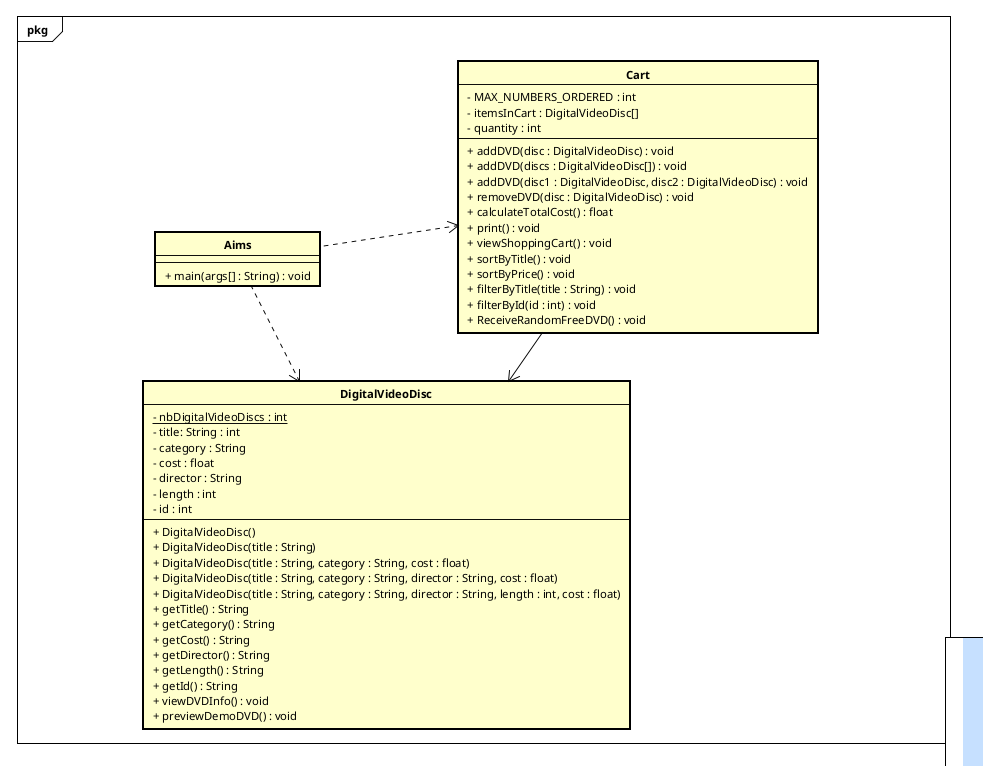
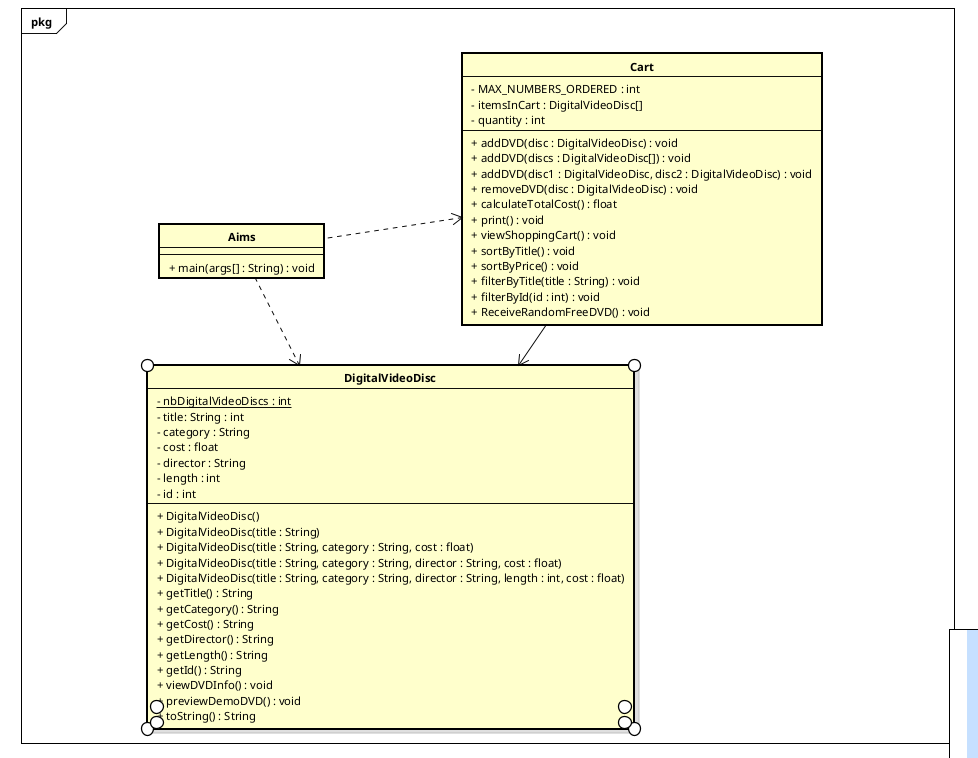
Modify method and create CartTest class

diff --git a/AimsProject/src/com/hust/kstn/models/Cart.java b/AimsProject/src/com/hust/kstn/models/Cart.java
@@ -50,14 +50,14 @@ public class Cart {
                 }
             }
             if(!isExist) {
-                System.out.println("The disc does not exist");
+                System.out.println("The disc " + disc.getTitle() + " does not exist");
             } else {
                 for(int i = index; i < qtyOrdered - 1; i++) {
                     itemsInCart[i] = itemsInCart[i + 1];
                 }
                 itemsInCart[qtyOrdered - 1] = null;
                 qtyOrdered--;
-                System.out.println("The disc has been removed sucessfully");
+                System.out.println("The disc " + disc.getTitle() + " has been removed sucessfully");
             }
         } else {
             System.out.println("The cart is empty");
@@ -73,12 +73,10 @@ public class Cart {
     }
 
     public void print() {
-        System.out.println("=== Total items in cart: " + qtyOrdered + " ===");
-        System.out.println("=== All items in cart ===");
-        for(int i = 0; i < qtyOrdered; i++) {
-            System.out.println("Title: " + itemsInCart[i].getTitle());
-            System.out.println("Cost: " + itemsInCart[i].getCost());
-        }
+        System.out.println("======================= THE CURRENT CART =======================");
+        System.out.println("Total items: [" + qtyOrdered + "]");
+        for(int i = 0; i < qtyOrdered; i++) System.out.println(itemsInCart[i].toString());;
+        System.out.println("Subtotal: [" + calculateTotalCost() + "]");
     }
 
     public void viewShoppingCart() {

diff --git a/AimsProject/src/com/hust/kstn/test/CartTest.java b/AimsProject/src/com/hust/kstn/test/CartTest.java
@@ -1,0 +1,40 @@
+package com.hust.kstn.test;
+
+import com.hust.kstn.models.*;
+
+public class CartTest {
+    public static void main(String[] args) {
+        Cart cart = new Cart();
+
+        DigitalVideoDisc[] myArray = new DigitalVideoDisc[16];
+        for(int i = 0; i < 16; i++) {
+            myArray[i] = new DigitalVideoDisc("DangBaoQuan_" + i, "None", "BaoQuanHihihi_" + i, (32 + i), (float)50.0);
+        }
+
+        DigitalVideoDisc dang = new DigitalVideoDisc("The Lion King", "Animation", "Roger Allers", 87, 19.95f);
+        DigitalVideoDisc bao = new DigitalVideoDisc("Star Wars", "Science Fiction", "George Lucas", 124, 24.95f);
+        DigitalVideoDisc quan = new DigitalVideoDisc("Aladdin", "Animation", "John Musker", 90, 18.99f);
+        DigitalVideoDisc dep = new DigitalVideoDisc("The Godfather", "Crime", "Francis Coppola", 175, 22.5f);
+        DigitalVideoDisc trai = new DigitalVideoDisc("Inception", "Action", "Christopher Nolan", 148, 21.0f);
+
+        // Add items
+        cart.addDVD(bao, quan);
+        cart.print();
+
+        // Don't remove items that aren't in the cart.
+        cart.removeDVD(trai);
+        cart.print();
+        
+        cart.removeDVD(quan);
+        cart.print();
+
+        cart.addDVD(myArray);
+        cart.print();
+
+        cart.addDVD(trai, quan);
+        cart.print();
+
+        cart.addDVD(dang, dep);
+        cart.print();
+    }
+}

diff --git a/AimsProject/src/com/hust/kstn/models/DigitalVideoDisc.java b/AimsProject/src/com/hust/kstn/models/DigitalVideoDisc.java
@@ -116,4 +116,14 @@ public class DigitalVideoDisc {
             category.equalsIgnoreCase(other.category) &&
             director.equalsIgnoreCase(other.director);
     }
+
+    @Override
+    public String toString() {
+        return "DVD" + "[" + this.id + "]"
+        + "[" + this.title + "]"
+        + "[" + this.cost + "]"
+        + "[" + this.director + "]"
+        + "[" + this.length + "]"
+        + "[" + this.category + "]";
+    }
 }
